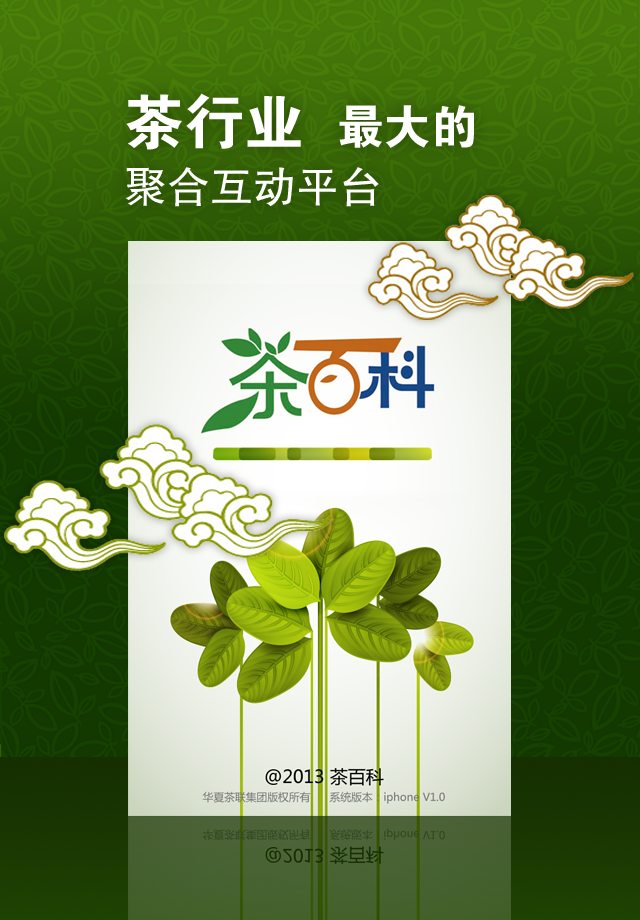
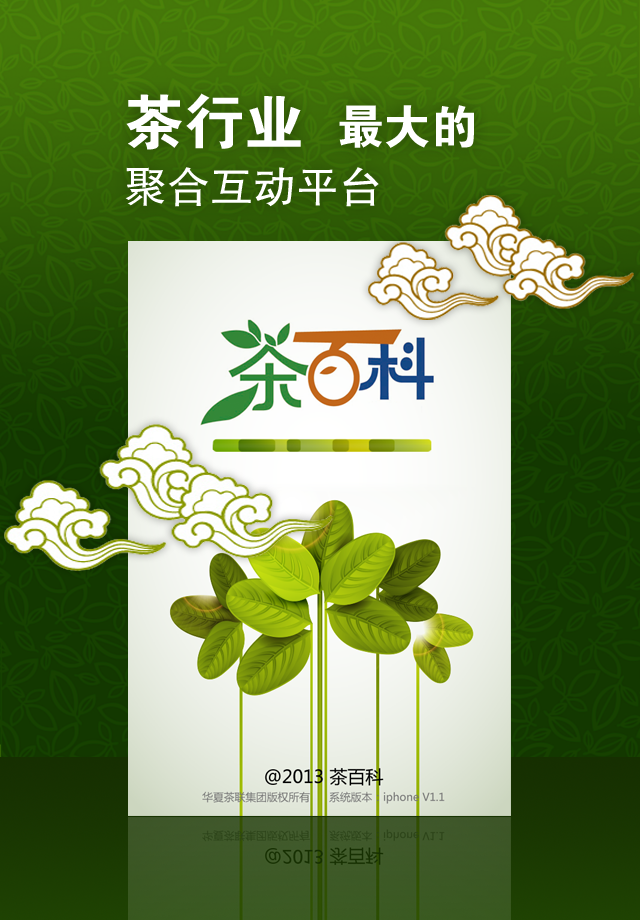
更改版本号

Changed region(s): [[0.25, 0.5478, 0.75, 0.9435], [0.3125, 0.3348, 0.6875, 0.5174]]

diff --git a/chabaike/chabaikeAppDelegate.m b/chabaike/chabaikeAppDelegate.m
@@ -21,15 +21,12 @@
     self.window = [[UIWindow alloc] initWithFrame:[[UIScreen mainScreen] bounds]];
     // Override point for customization after application launch.
     NSUserDefaults *defaults = [NSUserDefaults standardUserDefaults];
-    NSLog(@"systemVersion%@",[defaults objectForKey:@"systemVersion"]);
     if([[defaults objectForKey:@"systemVersion"] isEqualToString:SYS_VERSION])
     {
-        NSLog(@"不是第一次启动");
         UINavigationController *navController = [[UINavigationController alloc] initWithRootViewController:[[ViewController alloc] initWithNibName:@"ViewController" bundle:nil]];
         self.window.rootViewController = navController;
         [navController setNavigationBarHidden:YES];
     }else{
-        NSLog(@"是第一次启动");
         [defaults setObject:SYS_VERSION forKey:@"systemVersion"];
         [defaults synchronize];
         UINavigationController *navController = [[UINavigationController alloc] initWithRootViewController:[[SlideViewController alloc] initWithNibName:@"SlideViewController" bundle:nil]];
@@ -38,7 +35,7 @@
     }
     [MobClick startWithAppkey:@"4fab36cf527015375d000049"];
     [MobClick checkUpdate];
-    [MobClick setLogEnabled:YES];
+    [MobClick setLogEnabled:NO];
     [self.window makeKeyAndVisible];
     return YES;
 }
